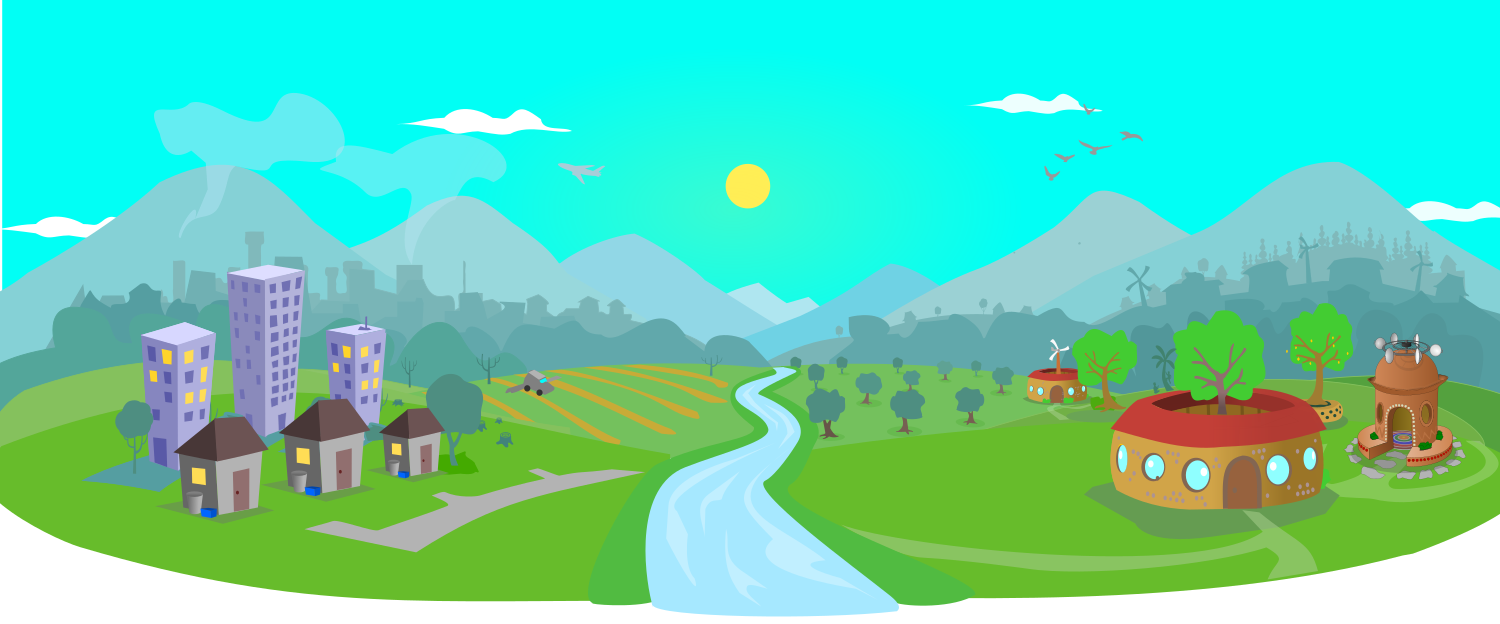
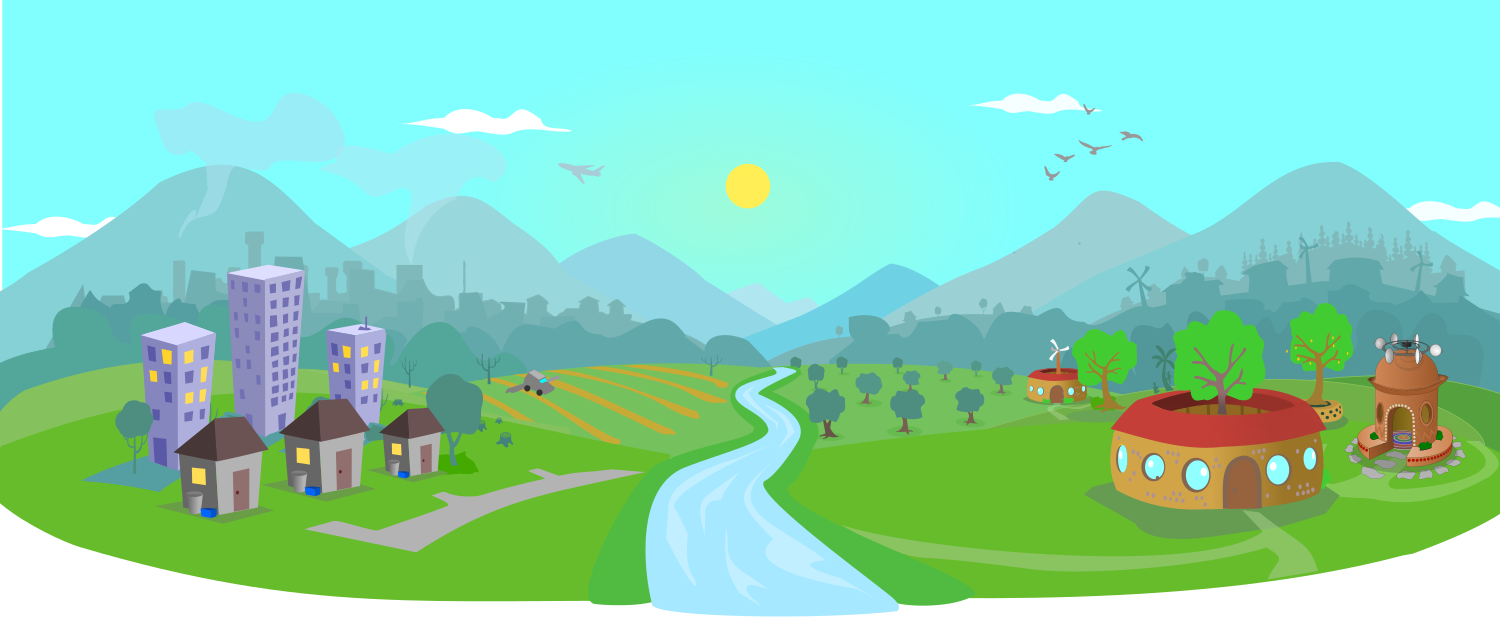
Cleaning up the repo

diff --git a/styles/mode-light.css b/styles/mode-light.css
@@ -235,7 +235,7 @@
 }
 
 .vision-landscape {
-  background: url(../webps/buwana-vision-2025.webp?v=2) no-repeat bottom;
+  background: url(../webps/buwana-vision-2025.webp?v=3) no-repeat bottom;
   background-size: cover;
 
 }

diff --git a/en/app-connect.php b/en/app-connect.php
@@ -120,12 +120,14 @@ padding-top: 10px !important;
     object-fit: contain;
 }
 
+
 .connect-arrow {
   position: relative;
   width: 20px;
   height: 20px;
   margin: 0 10px;
-  animation: pulseSlide 1.1s infinite;
+  animation: pulseSlide 1.1s ease-in-out infinite;
+  transform-origin: center;
 }
 
 .connect-arrow::before,
@@ -137,8 +139,8 @@ padding-top: 10px !important;
   background-color: limegreen;
   border-radius: 1px;
   top: 3px;
-  left: 50%;
-  transform-origin: bottom center;
+  left: 8px;
+  transform-origin: center;
 }
 
 .connect-arrow::before {
@@ -151,18 +153,23 @@ padding-top: 10px !important;
 
 @keyframes pulseSlide {
   0% {
-    transform: translateX(0);
+    transform: translateX(0) scaleY(1);
     opacity: 0.9;
   }
   30% {
-    transform: translateX(10px);
+    transform: translateX(10px) scaleY(0.8); /* compress vertically */
     opacity: 1;
   }
+  60% {
+    transform: translateX(5px) scaleY(1.15); /* stretch vertically on return */
+    opacity: 0.95;
+  }
   100% {
-    transform: translateX(0);
+    transform: translateX(0) scaleY(1);
     opacity: 0.8;
   }
 }
+
 
 
 </STYLE>
@@ -184,16 +191,16 @@ padding-top: 10px !important;
 
         </div>
 
-      <h2>
+      <h1>
         <span data-lang-id="001-first-time-to-connect">Connect to</span> <?= htmlspecialchars($app_info['app_display_name']) ?>
-      </h2>
-      <p>
+      </h1>
+      <h4>
           <?= htmlspecialchars($first_name) ?>, <span data-lang-id="002-are-you-sure"> it looks like you are trying to login to <?= htmlspecialchars($app_info['app_display_name']) ?> for the first time!  Nice.</span>
-      </p>
+      </h4>
 
 
        <p>
-            <span data-lang-id="003-if-so">If so, the </span><?= htmlspecialchars($app_info['app_display_name']) ?><span data-lang-id="004-will-be-granted"> will be granted access to your Buwana account so that you can login in make use of its regenerative functionality.</span>.
+            <span data-lang-id="003-if-so">By connecting, you grant </span><?= htmlspecialchars($app_info['app_display_name']) ?><span data-lang-id="004-will-be-granted"> access to your Buwana account so that you can login and make use of its regenerative functionality.</span>.
        </p>
 
         <form id="user-signup-form" method="post" action="app-connect_process.php" novalidate>
@@ -213,7 +220,7 @@ padding-top: 10px !important;
         </form>
     </div>
   </div>
-  <div id="browser-back-link" style="font-size: small; text-align: center; margin: auto; align-self: center; padding-top: 40px; padding-bottom: 40px; margin-top: 0px;">
+  <div id="browser-back-link" style="font-size: small; text-align: center; margin: auto; align-self: center; padding-top: 40px; padding-bottom: 40px; margin-top: 0px;line-height:1.3em;">
       <p><span data-lang-id="006-no-connect">If you don't want to connect, no problem!<br>Return to the </span><a href="<?= htmlspecialchars($app_info['app_url']) ?>"><?= htmlspecialchars($app_info['app_display_name']) ?> <span data-lang-id="000-home">home</span></a>.
       </p>
   </div>
